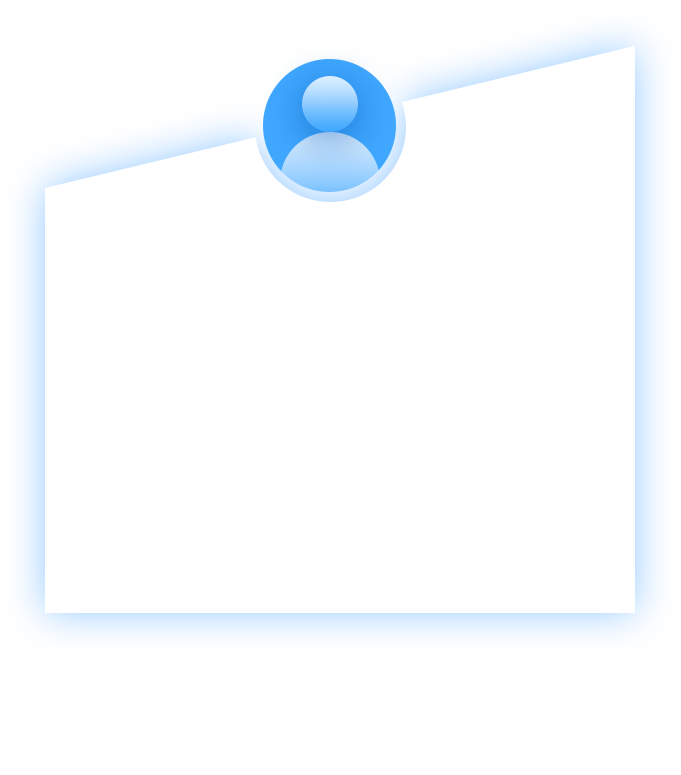
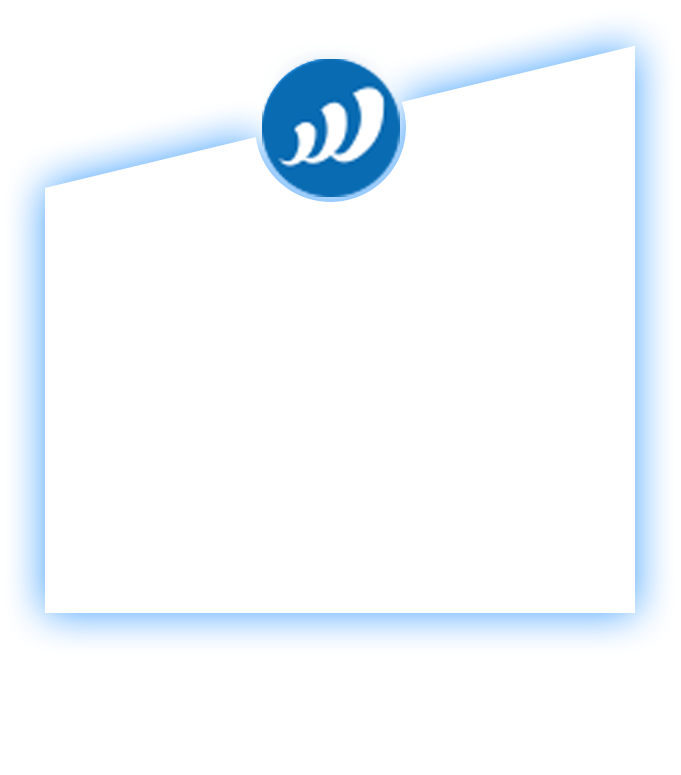
add

Changed region(s): [[0.0308, 0.031, 0.9251, 0.8052], [0.9251, 0.0619, 0.9559, 0.7742]]

diff --git a/components/reserved/index.css b/components/reserved/index.css
@@ -15,8 +15,18 @@
 .carBox{
     height: 90px;
     width: 100%;
-    padding-top: 22px;
+    padding-top: 22px ;
     background: #fff;
+    overflow-x: scroll;
+    overflow-y: hidden;
+    white-space: nowrap;
+}
+.carBox::-webkit-scrollbar{
+    width:0
+}
+.carBox > div{
+    min-width: 1110px;
+    height: 68px;
 }
 .carBox .item{
     width: 120px;
@@ -35,6 +45,9 @@
 }
 .carBox .item:first-child{
     margin-left: 45px;
+}
+.carBox .item:last-child{
+    margin-right: 45px;
 }
 .time{
     margin-top: 20px;

diff --git a/components/register/index.css b/components/register/index.css
@@ -88,7 +88,7 @@
     width: 2.666667rem;
     height: .8rem;
     border-radius: .08rem;
-    background: #2395ff;
+    background: #096bb2;
     color: #fff;
     text-align: center;
     font-size: .373333rem;
